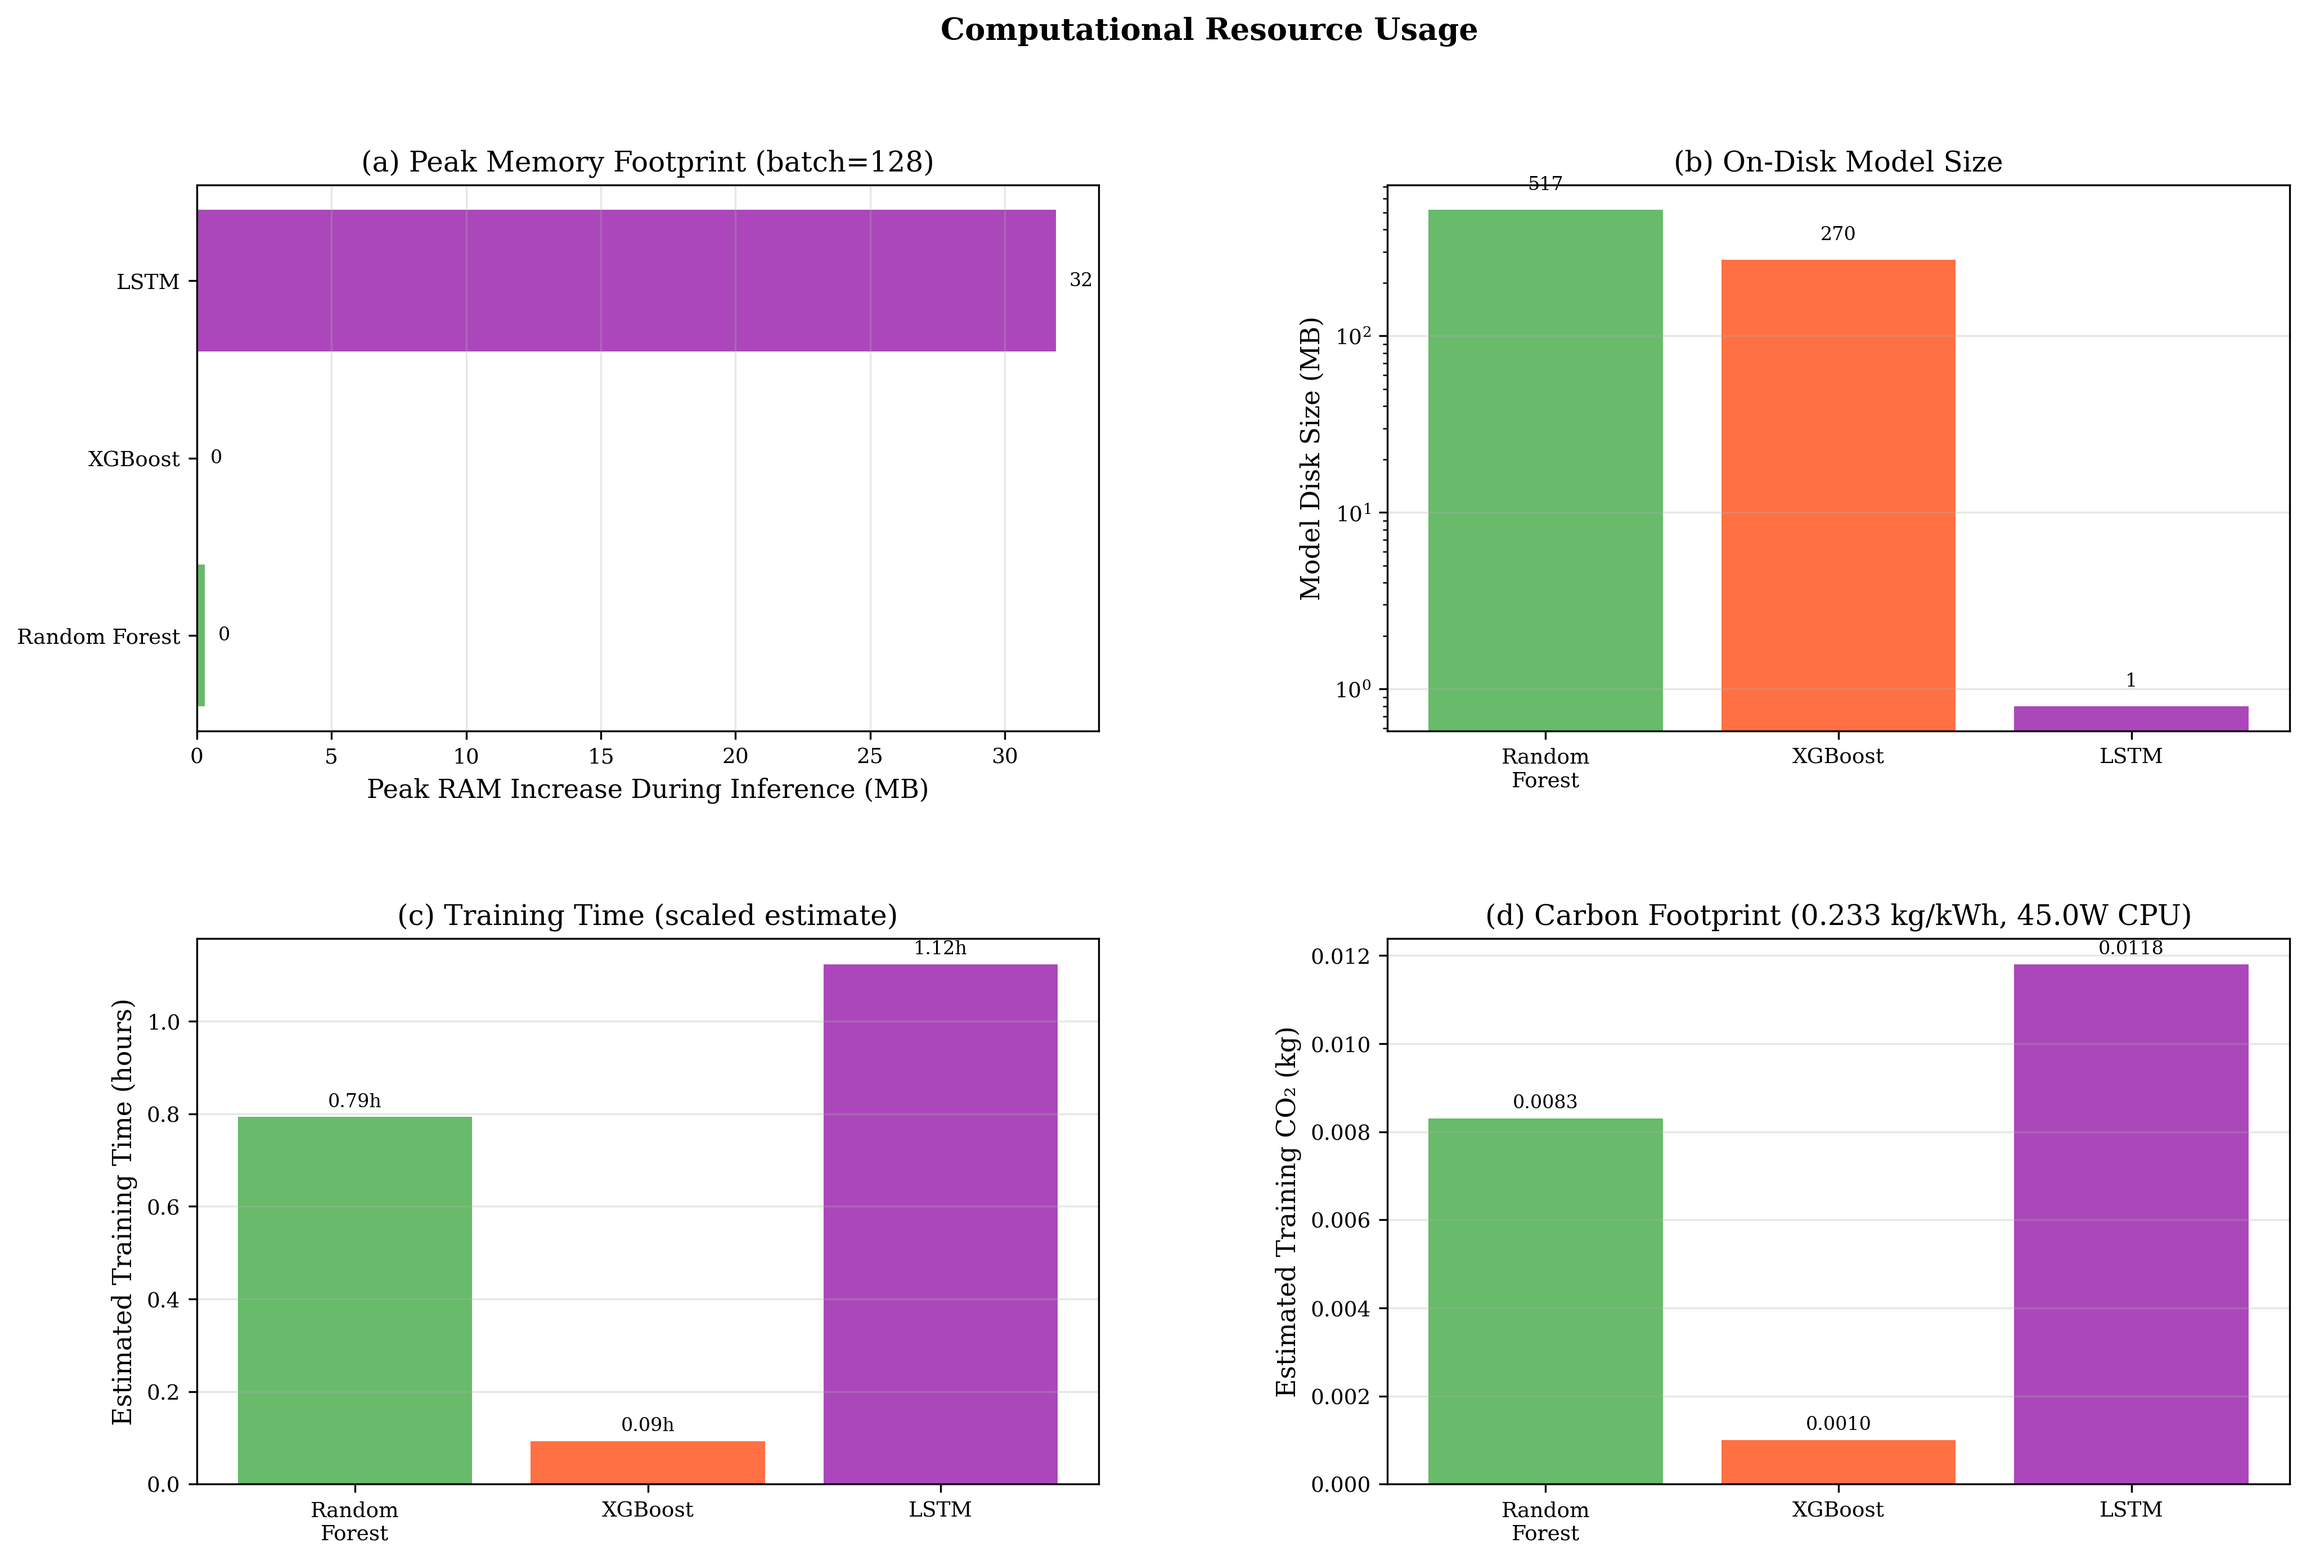
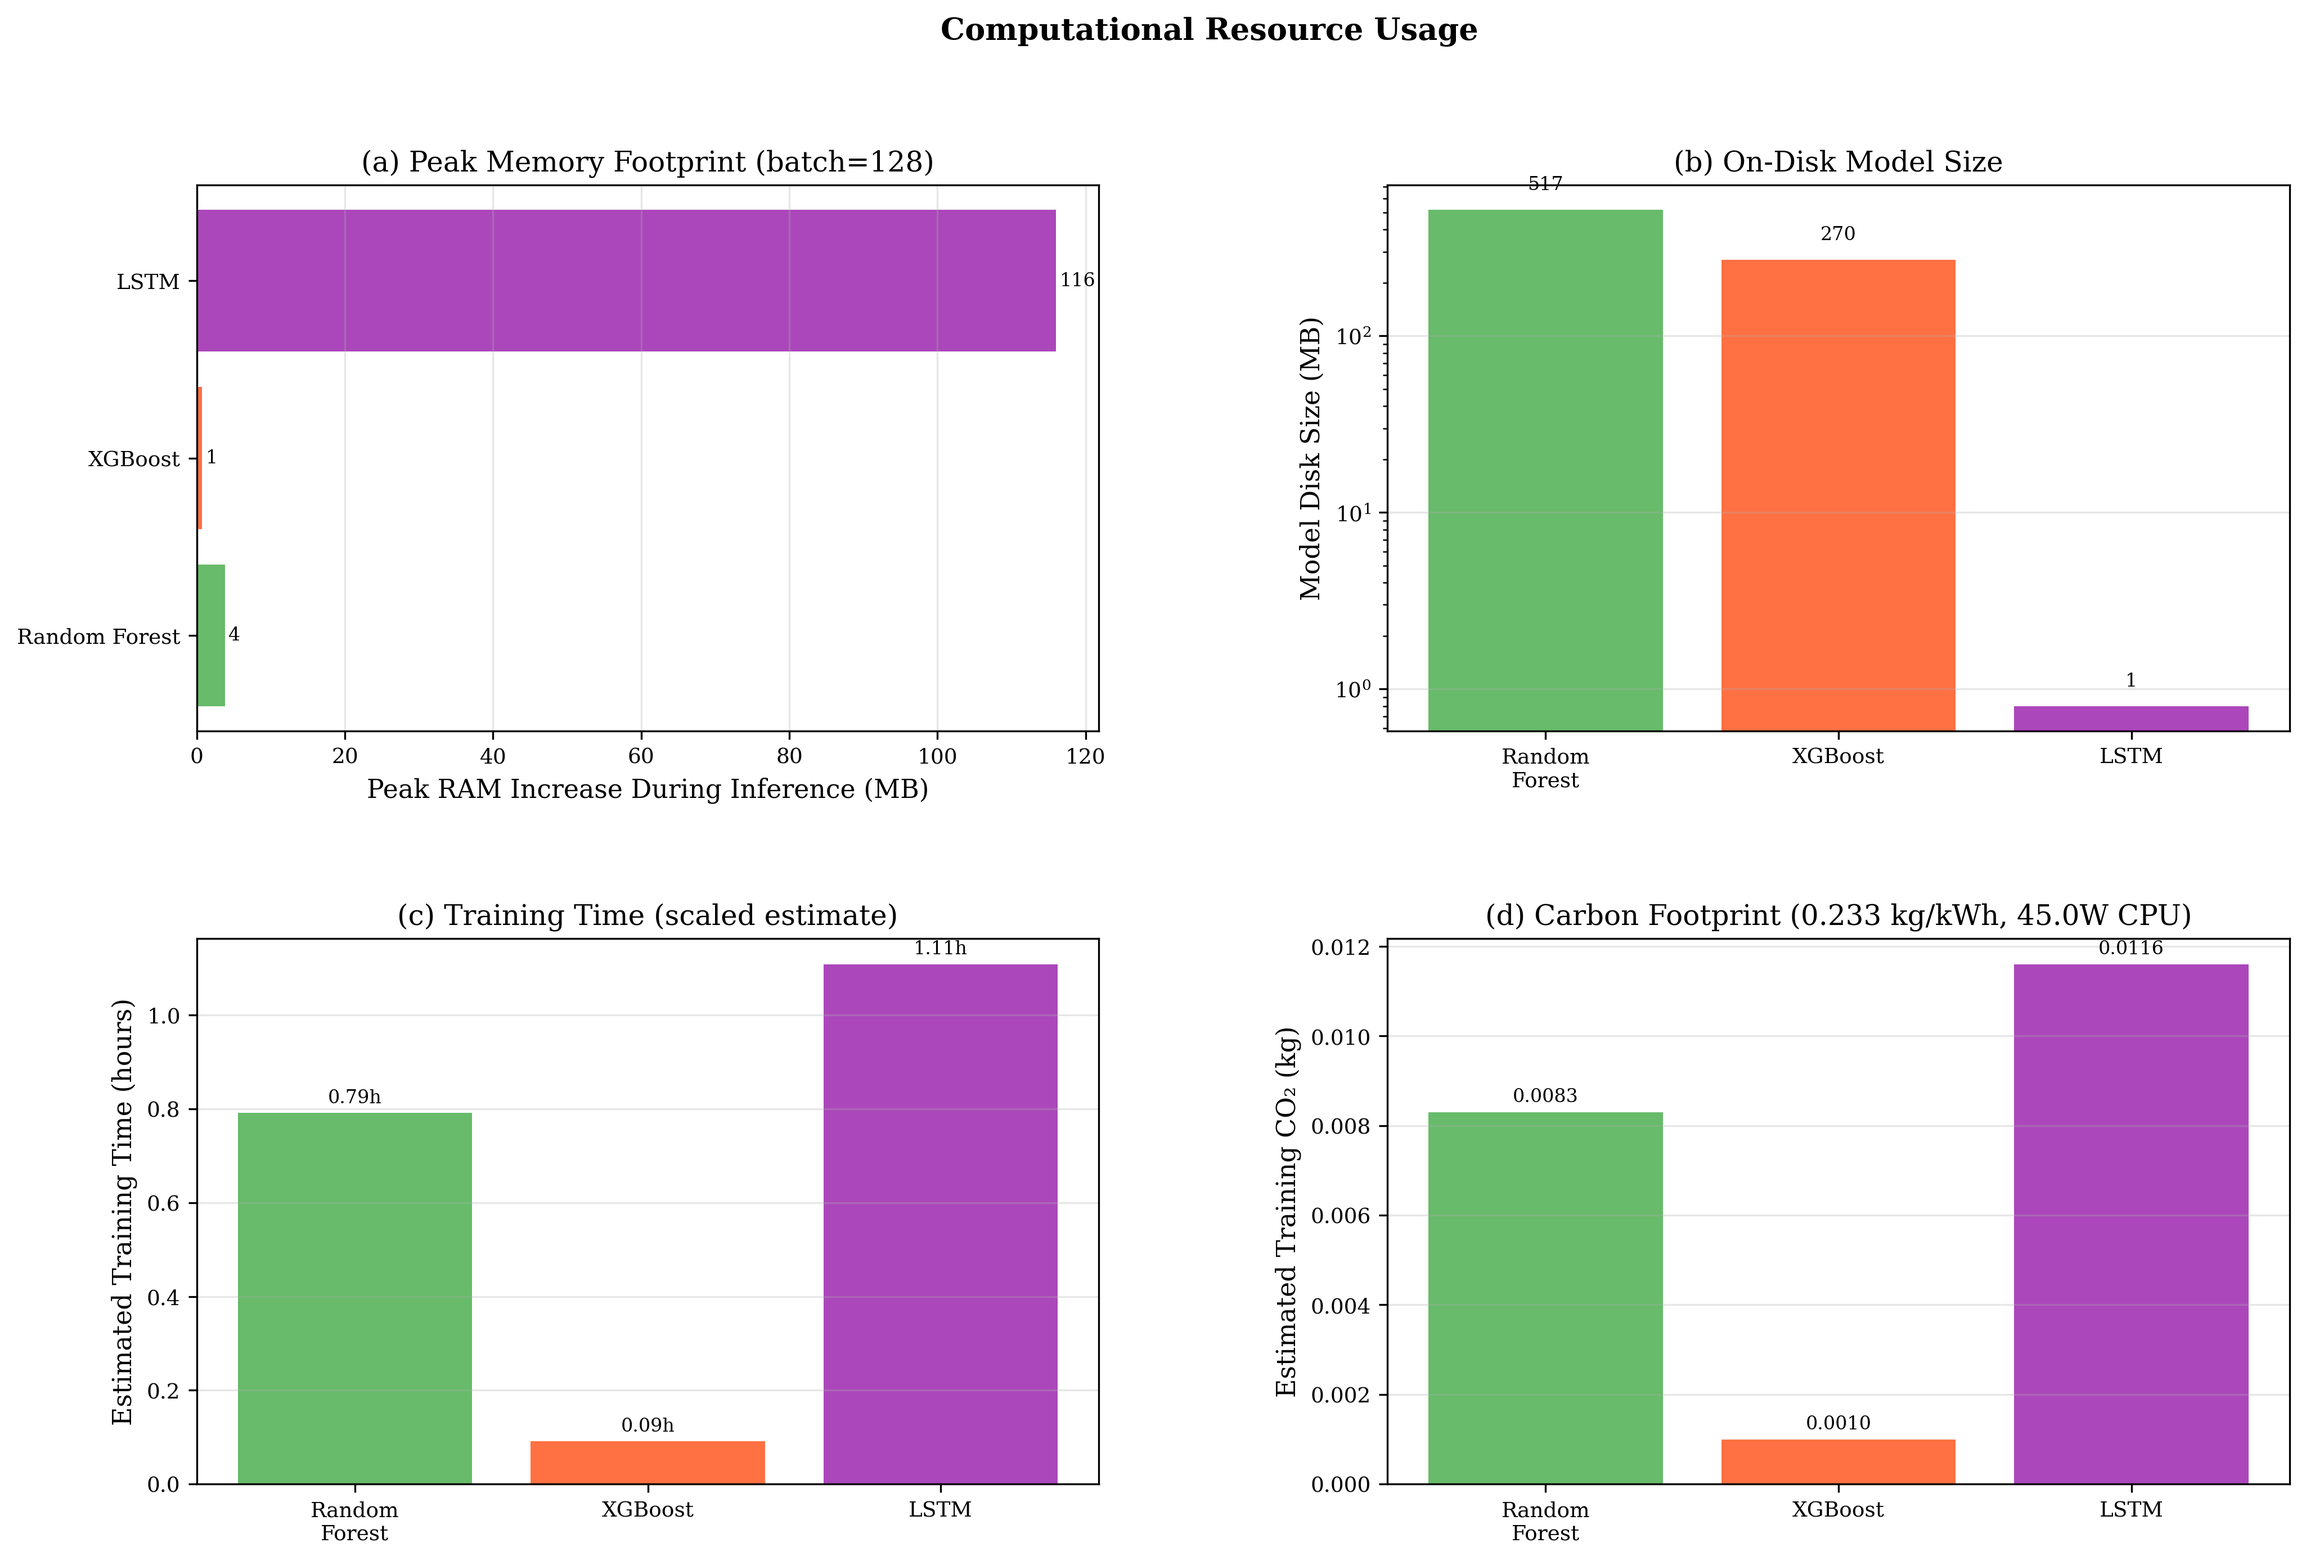
checking outputs of efficiency_comparisons.cvs

diff --git a/scripts/computational_efficiency.py b/scripts/computational_efficiency.py
@@ -13,10 +13,11 @@ Outputs
 -------
   results/metrics/computational_costs.json
   results/metrics/efficiency_comparison.csv
+  results/efficiency/COMPUTATIONAL_EFFICIENCY_SUMMARY.txt
   figures/efficiency/inference_time_comparison.png
   figures/efficiency/accuracy_vs_cost_tradeoff.png
   figures/efficiency/resource_usage_comparison.png
-  COMPUTATIONAL_EFFICIENCY_SUMMARY.txt
+  
 
 Usage
 -----
@@ -149,7 +150,10 @@ class PeakMemoryTracker:
 
     @property
     def peak_mb(self) -> float:
-        return max(0.0, self._peak_delta / (1024 ** 2))
+        mb = max(0.0, self._peak_delta / (1024 ** 2))
+        # If measured value is very small, report as 0.05 MB minimum
+        # to avoid misleading "0.0 MB" for models that DO use memory
+        return 0.05 if 0.0 < mb < 0.05 else mb
 
 
 # ---------------------------------------------------------------------------
@@ -694,7 +698,7 @@ def build_summary_df(bench: dict, acc: dict) -> pd.DataFrame:
             "InferBS128_ms"      : round(b["infer_ms"].get(128, (np.nan, np.nan))[0], 3),
             "Throughput_BS1_sps" : round(b["throughput_sps"].get(1, np.nan), 1),
             "Throughput_BS128_sps": round(b["throughput_sps"].get(128, np.nan), 1),
-            "PeakMem_MB"         : round(b["peak_mem_mb"], 1),
+            "PeakMem_MB"         : round(max(0.05, b["peak_mem_mb"]), 1) if b["peak_mem_mb"] < 0.1 else round(b["peak_mem_mb"], 1),
             "DiskSize_MB"        : round(b["disk_size_mb"], 1),
             "NParams"            : b["n_params"],
             "TrainTime_h"        : round(b["train_time_s"][0] / 3600, 3),
